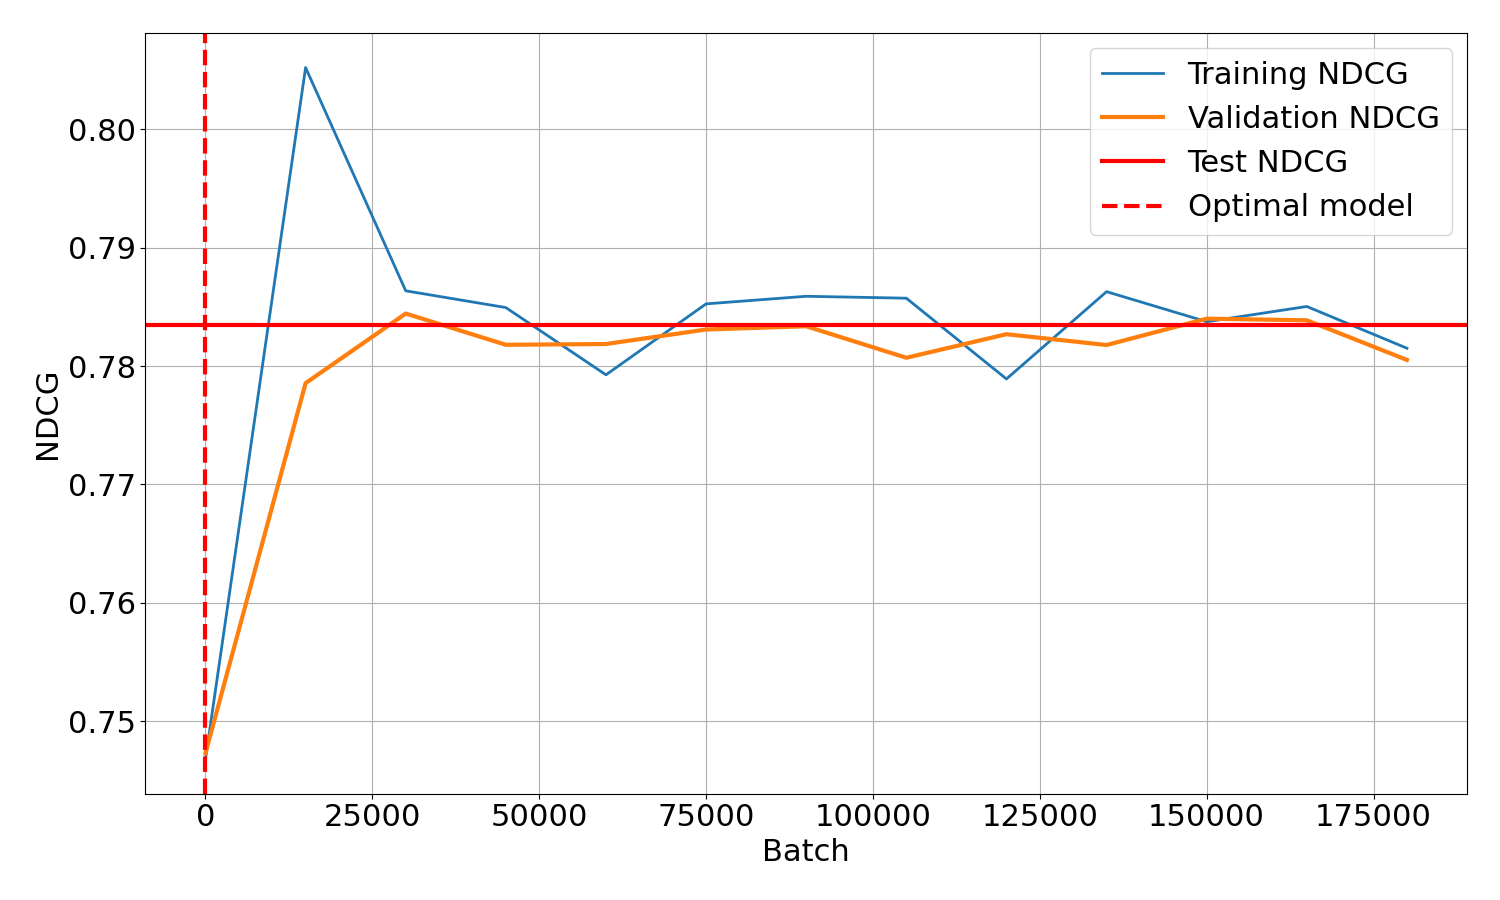
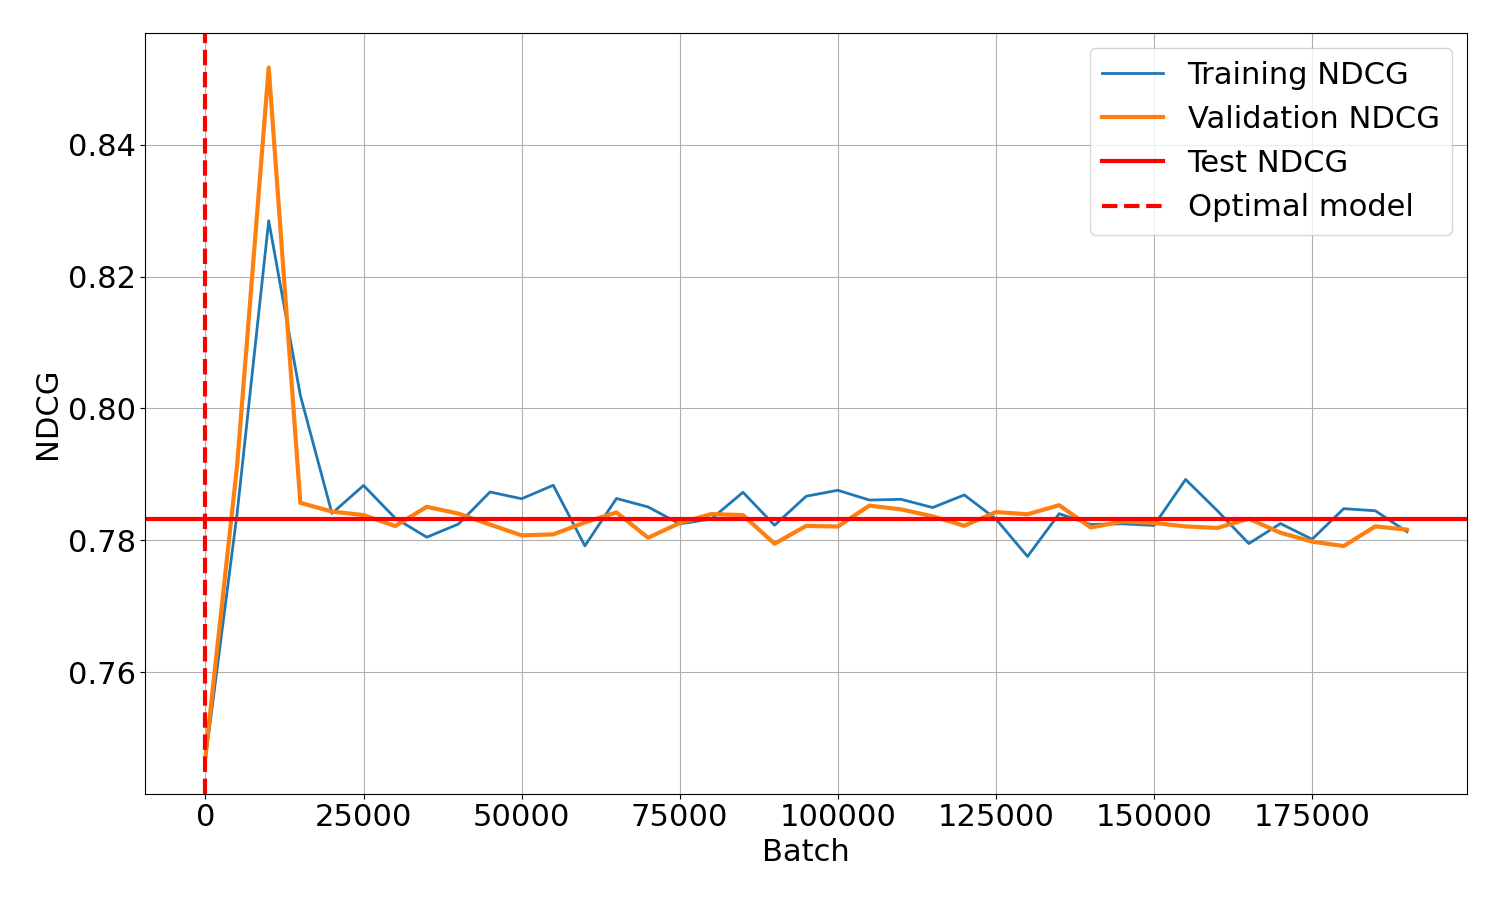
Lower eval freq

diff --git a/code/datasets.py b/code/datasets.py
@@ -30,8 +30,8 @@ class RankDataSet(Dataset):
         n_answers = [sum(1 for i in answer if i != "") for answer in answers]
         n_answers = torch.tensor(n_answers).reshape(-1,1)
 
-        avg_answer_len = [np.mean([len(i) for i in answer]) for answer in answers]
-        avg_answer_len = torch.tensor(avg_answer_len).reshape(-1,1)
+        # avg_answer_len = [np.mean([len(i) for i in answer]) for answer in answers]
+        # avg_answer_len = torch.tensor(avg_answer_len).reshape(-1,1)
 
         query_len = [len(self.dataset.queries[i]) for i in indices]
         query_len = torch.tensor(query_len).reshape(-1,1)
@@ -42,7 +42,7 @@ class RankDataSet(Dataset):
         click_probs = [self.dataset.click_probs[i] for i in indices]
         click_probs = torch.tensor(click_probs).reshape(-1,5)
 
-        vectors = torch.cat((n_answers, avg_answer_len, query_len, question_len, click_probs), dim=1)
+        vectors = torch.cat((n_answers, query_len, question_len, click_probs), dim=1)
 
         if self.use_preds:
             preds = [self.dataset.predictions[i] for i in indices]

diff --git a/code/train_ranknet.py b/code/train_ranknet.py
@@ -17,7 +17,7 @@ DNN_HIDDEN_UNITS_DEFAULT = '32, 16'
 DROPOUT_DEFAULT = '0, 0, 0'
 LEARNING_RATE_DEFAULT = 1e-3
 NR_EPOCHS_DEFAULT = 5
-EVAL_FREQ_DEFAULT = 15000
+EVAL_FREQ_DEFAULT = 5000
 NEG_SLOPE_DEFAULT = 0.02
 DATA_DIR_DEFAULT = "Data/"
 
@@ -131,9 +131,9 @@ def train():
 
 
     if FLAGS.use_preds:
-      input_size = 10
-    else:
       input_size = 9
+    else:
+      input_size = 8
 
     variables_string = f"ranking_{FLAGS.optimizer}_{FLAGS.learning_rate}_{FLAGS.weightdecay}_{FLAGS.momentum}_{FLAGS.dnn_hidden_units}_{FLAGS.dropout_probs}_{FLAGS.batchnorm}_{FLAGS.nr_epochs}_{FLAGS.use_preds}"
     
